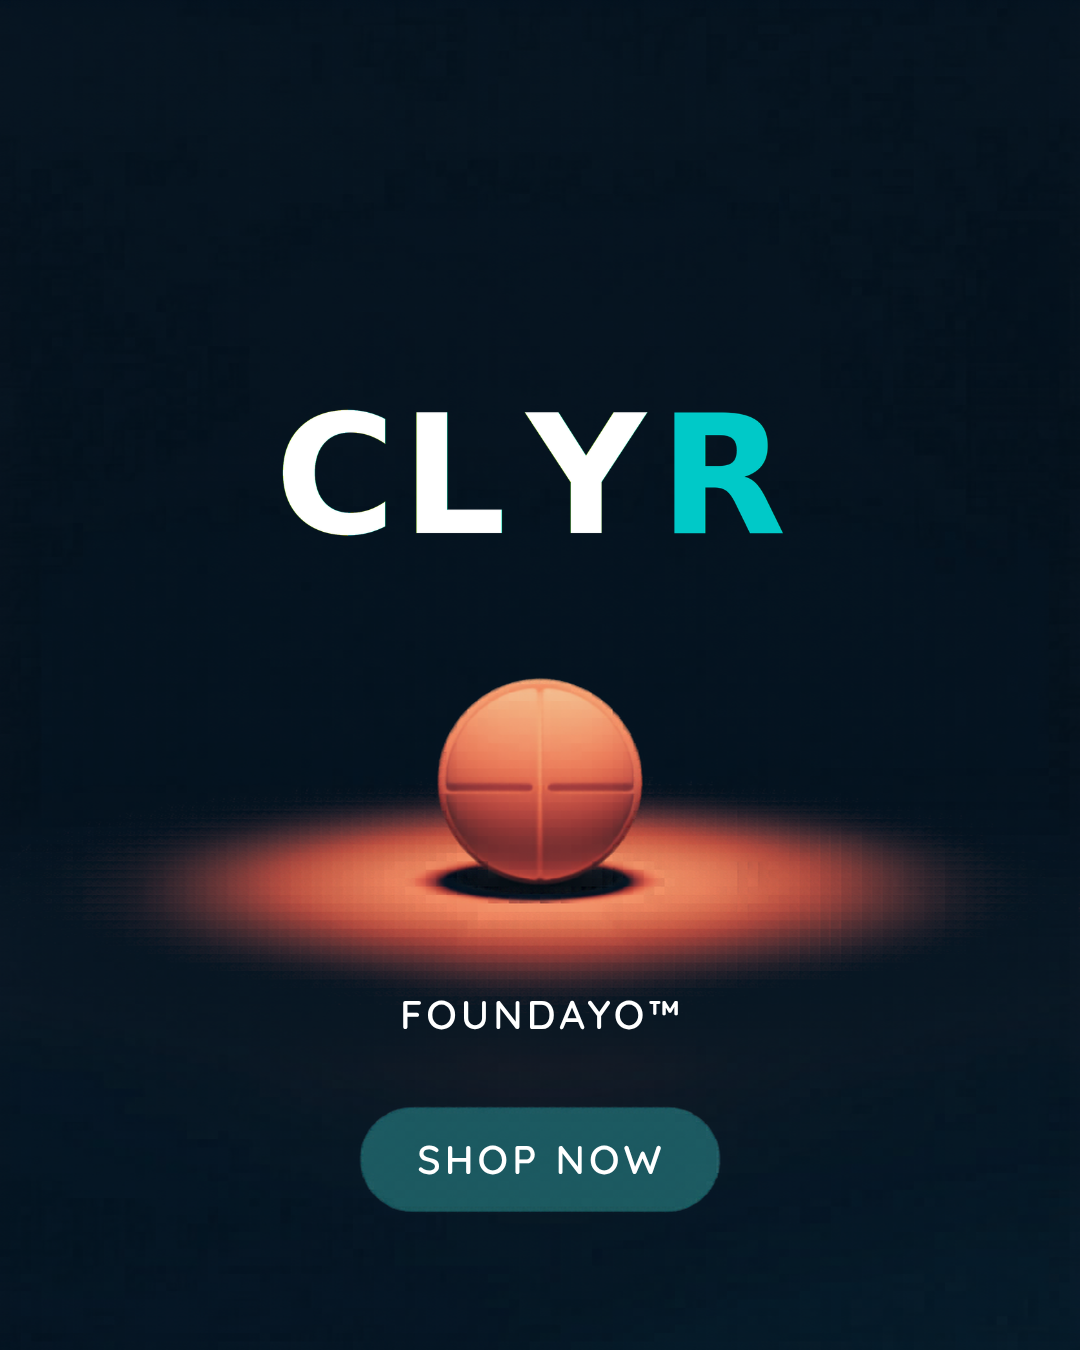
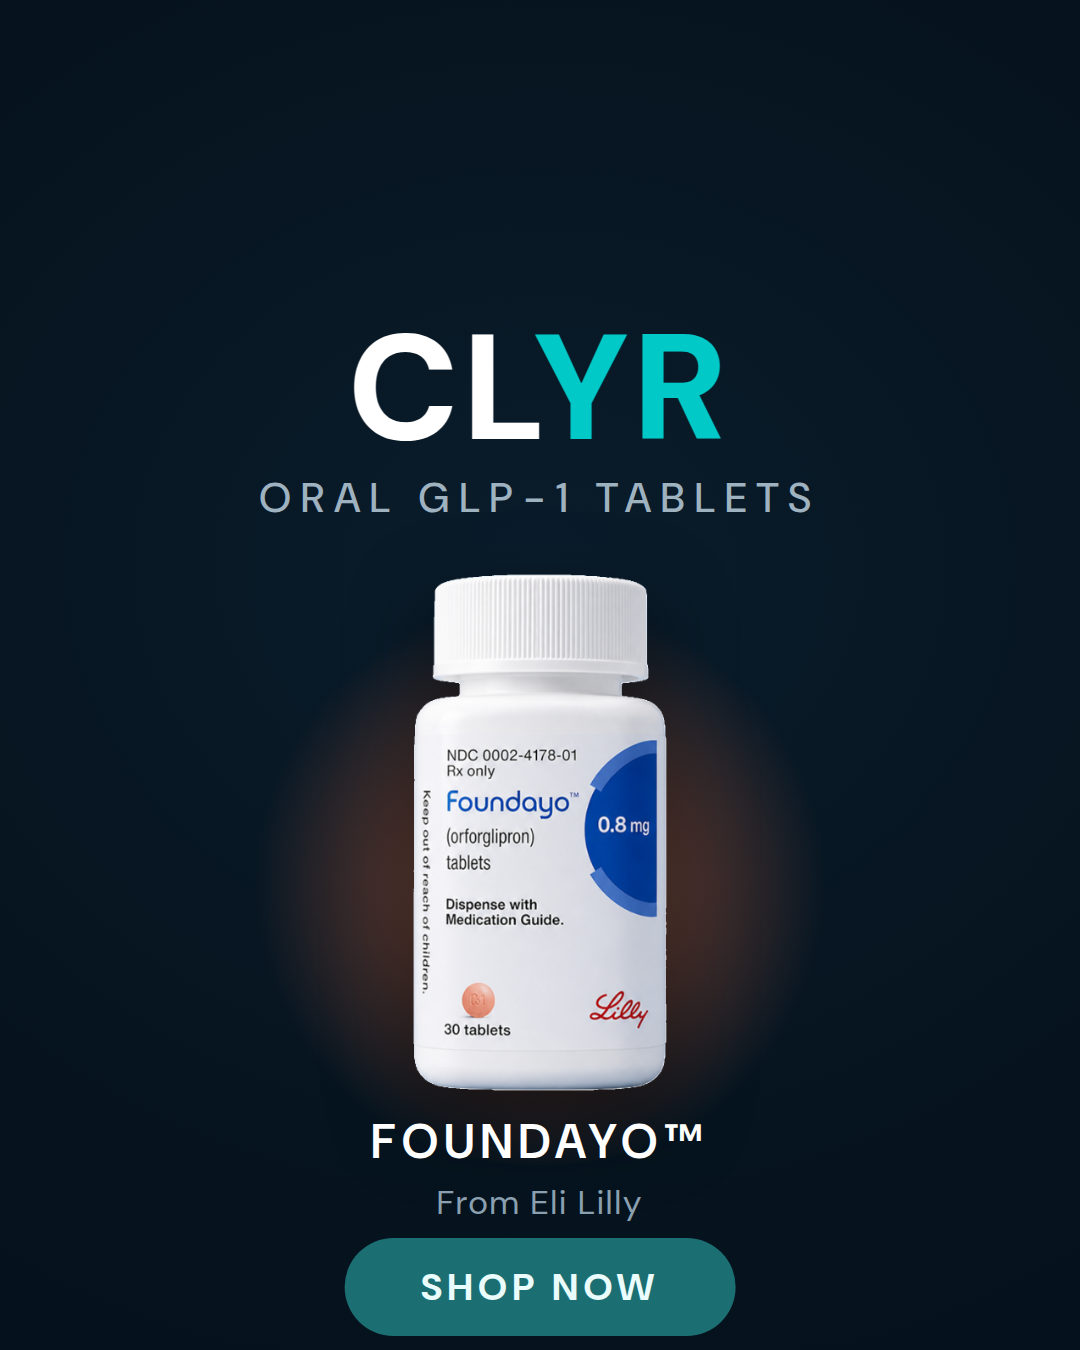
Fix Foundayo graphics: replace Wegovy-crossed foundayo-bottle.png with real orforglipron bottle (transparent knockout), regenerate tablet-foundayo-card.png from real bottle on brand navy card, add portal/foundayo.png thumb (300x300), wire /foundayo|orforglipron/ into portal PRODUCT_THUMBS resolver

Changed region(s): [[0.1222, 0.2489, 0.8861, 0.9956]]

diff --git a/portal/index.html b/portal/index.html
@@ -1088,6 +1088,7 @@ function renderRefillSummaryForTreatment(tx){
 // updated artwork shows regardless of what productImage the backend sends).
 const PRODUCT_THUMBS=[
   [/zepbound/i,'/img/portal/zepbound.png'],
+  [/foundayo|orforglipron/i,'/img/portal/foundayo.png'],
   [/tirzep/i,'/img/portal/tirzepatide.png'],
   [/semaglu/i,'/img/portal/semaglutide.png'],
   [/nad/i,'/img/portal/nad.png'],
@@ -1100,7 +1101,7 @@ const PRODUCT_THUMBS=[
   [/tadalafil|vardenafil|\btad\b/i,'/img/portal/tadalafil.png'],
   [/pt-?141|oxytocin|bremelanotide/i,'/img/portal/pt141.png'],
   [/ivermectin|mebendazole|antiparasit/i,'/img/portal/antiparasitic.png'],
-  // NOTE: Foundayo intentionally omitted until the correct bottle asset is confirmed (foundayo-bottle.png currently shows Wegovy). Falls back to backend image.
+  // Foundayo confirmed: correct orforglipron bottle asset placed (img/portal/foundayo.png), mapped above.
 ];
 // Resolve a thumbnail from any object that carries product name fields.
 // Accepts treatment objects (productDisplay/product), catalog objects